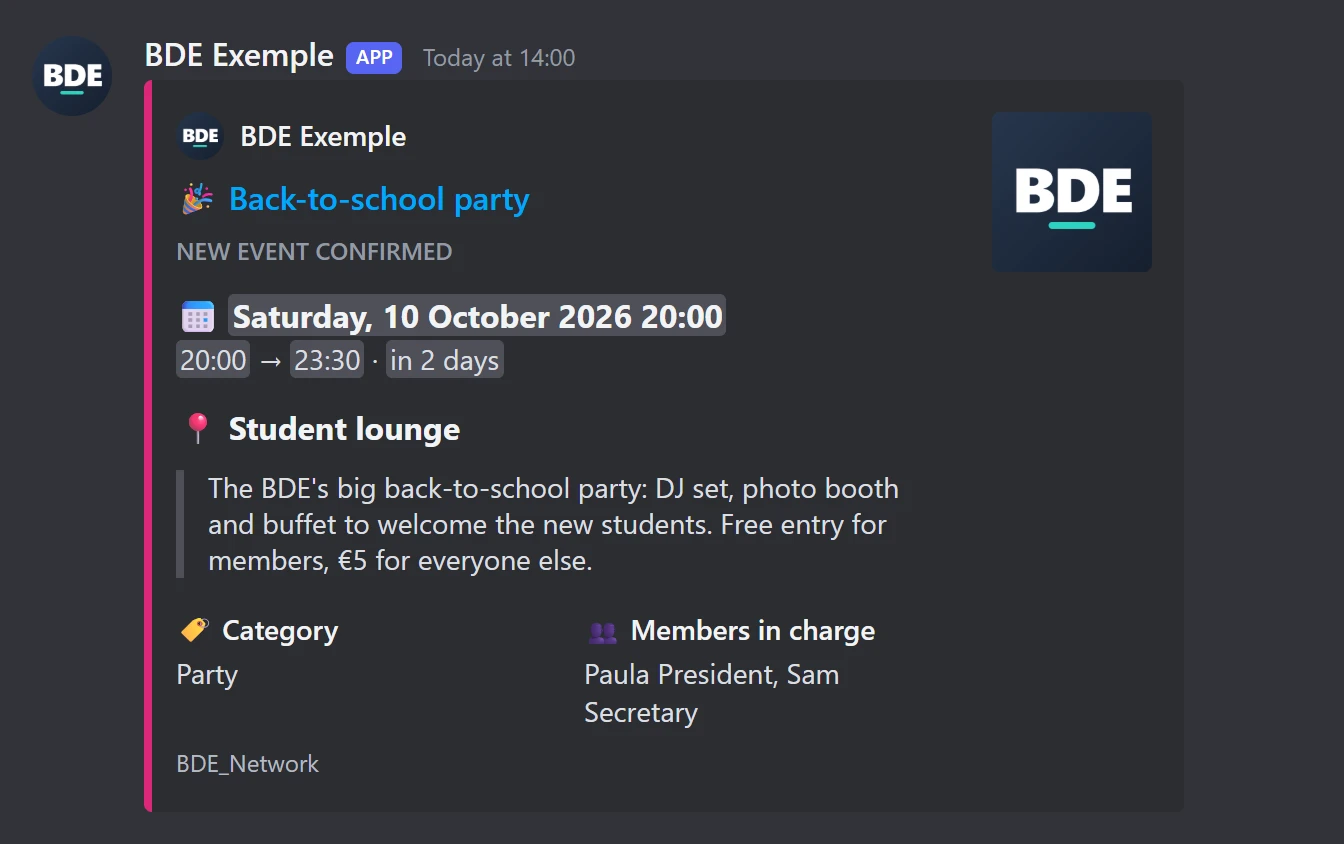
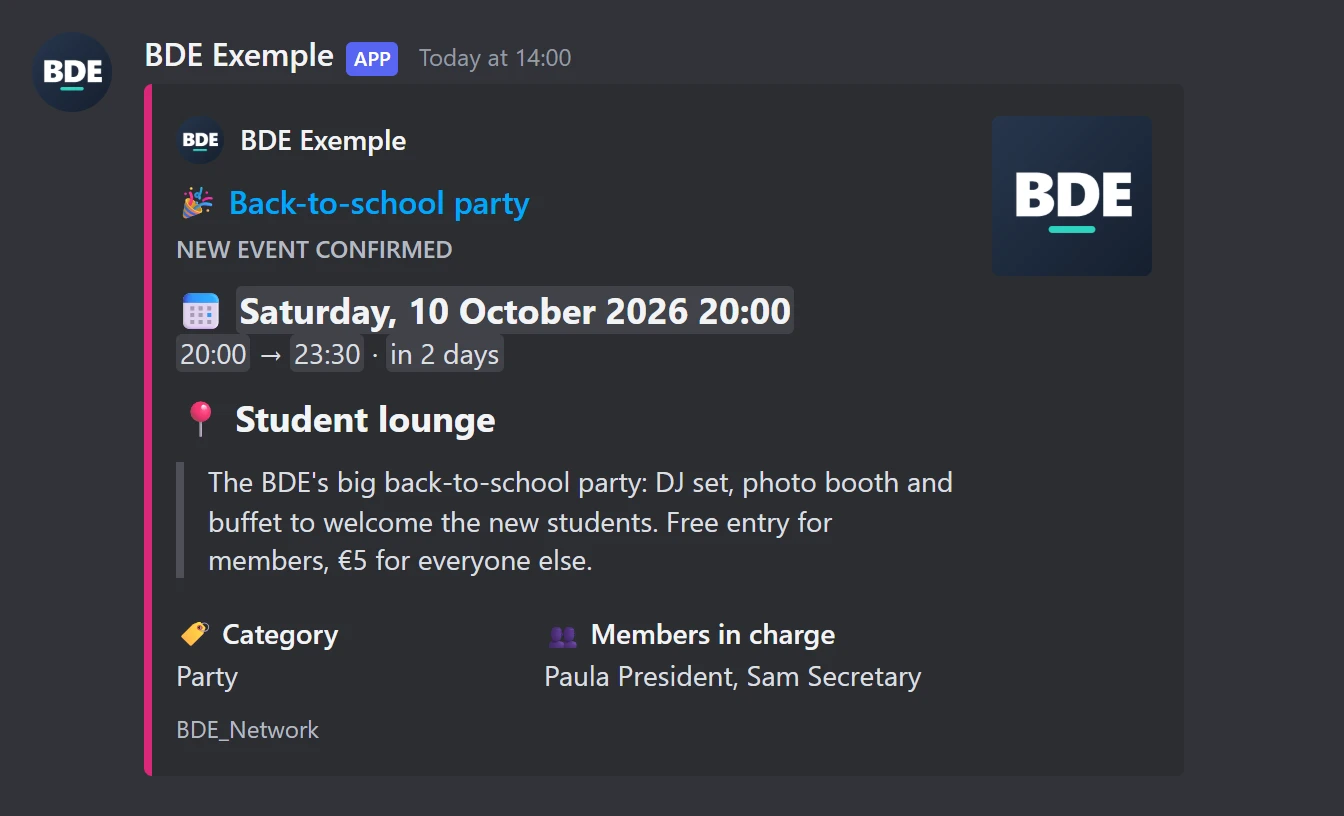
feat(notifications): the removal text says who removed the member; tone rule in the design reference; Discord pictures redrawn (#96)

diff --git a/src/lib/members/notifications.test.ts b/src/lib/members/notifications.test.ts
@@ -412,6 +412,20 @@ describe('notifyMemberRemoved', () => {
     },
   );
 
+  it.each(['discord', 'slack'] as const)(
+    'says in the plain text who removed them, as the card does (%s)',
+    async (channel) => {
+      useChannels({ memberRemoved: channel });
+      vi.mocked(prisma.user.findUnique).mockResolvedValue({ fullName: 'Paula Martin' } as never);
+
+      await notifyMemberRemoved(removed, 'pmartin');
+
+      expect(firstCall(vi.mocked(deliver))[1].body).toBe(
+        'Jean Dupont (jdupont) a été retiré du BDE par Paula Martin.',
+      );
+    },
+  );
+
   it('on Discord, a red card that says who removed them', async () => {
     useChannels({ memberRemoved: 'discord' });
     vi.mocked(prisma.user.findUnique).mockResolvedValue({ fullName: 'Paula Martin' } as never);

diff --git a/src/lib/members/messages.ts b/src/lib/members/messages.ts
@@ -51,10 +51,13 @@ export function buildApprovedMessage(
   };
 }
 
-/** A member was removed: only ever sent to the team's channel. */
+/** A member was removed: only ever sent to the team's channel. The text says who did it, as the card does, when it is known. */
 export function buildRemovedMessage(member: MemberFacts, t: Translate): BuiltMessage {
+  const who = { name: member.fullName, login: member.login };
   return {
     subject: t('removed.subject', { name: member.fullName }),
-    body: t('removed.body', { name: member.fullName, login: member.login }),
+    body: member.actorName
+      ? t('removed.bodyBy', { ...who, actor: member.actorName })
+      : t('removed.body', who),
   };
 }

diff --git a/src/lib/members/notifications.ts b/src/lib/members/notifications.ts
@@ -135,7 +135,7 @@ export async function notifyMemberRemoved(member: MemberFacts, actorLogin?: stri
 
     const t = await translate(config.bde.defaultLocale);
     const facts = { ...member, actorName: await actorNameFor(channels, actorLogin) };
-    const message = await withRichMessage('memberRemoved', buildRemovedMessage(member, t), {
+    const message = await withRichMessage('memberRemoved', buildRemovedMessage(facts, t), {
       discord: () => buildMemberEmbed('removed', facts, t, null),
       slack: (brand) => buildMemberSlack('removed', facts, t, null, brand),
     });

diff --git a/docs/design.md b/docs/design.md
@@ -333,6 +333,10 @@ Impersonal sentences, neither "tu" nor "vous": "Create an event", "No task in pr
 ("18:30"), amounts "4 812,40 €" with a thin non-breaking space before the symbol. A count of registrations is "42 / 60 registered", or "42 registered" without a gauge (the platform has no registrations yet,
 so there is no gauge).
 
+**Who is addressed decides the form.** The interface is impersonal, as above. A message written to one identified person (the e-mail that
+tells a member their access is approved, "Bonjour {name}, votre demande d'accès a été approuvée") says **"vous"** in French: it is a letter to someone,
+not a screen. What is written to a team, such as a card in a chat channel, speaks about the person in the third person.
+
 ## Where it lives, and what differs from the original specification
 
 | What                               | Where                                                                                                                                                               |

diff --git a/CHANGELOG.md b/CHANGELOG.md
@@ -35,6 +35,8 @@ All notable changes to this project are written here, in English. Format based o
 
 ### Changed
 
+- The plain text of a member removal now says who removed them ("… was removed from the BDE by Paula Martin."), as the card already did.
+
 - `notifications.<type>` of `bde.config.yml` and of the stored settings is a list (`[discord, email]`; `[]` for nothing). **The old
   form is still read**: `"discord"` is `[discord]`, `"none"` and a missing key are `[]`. Nothing is migrated or rewritten by the update
   (the update suite checks that each notification keeps its channel, from 1.0.0 to 1.4.0); the lists are written the next time the
